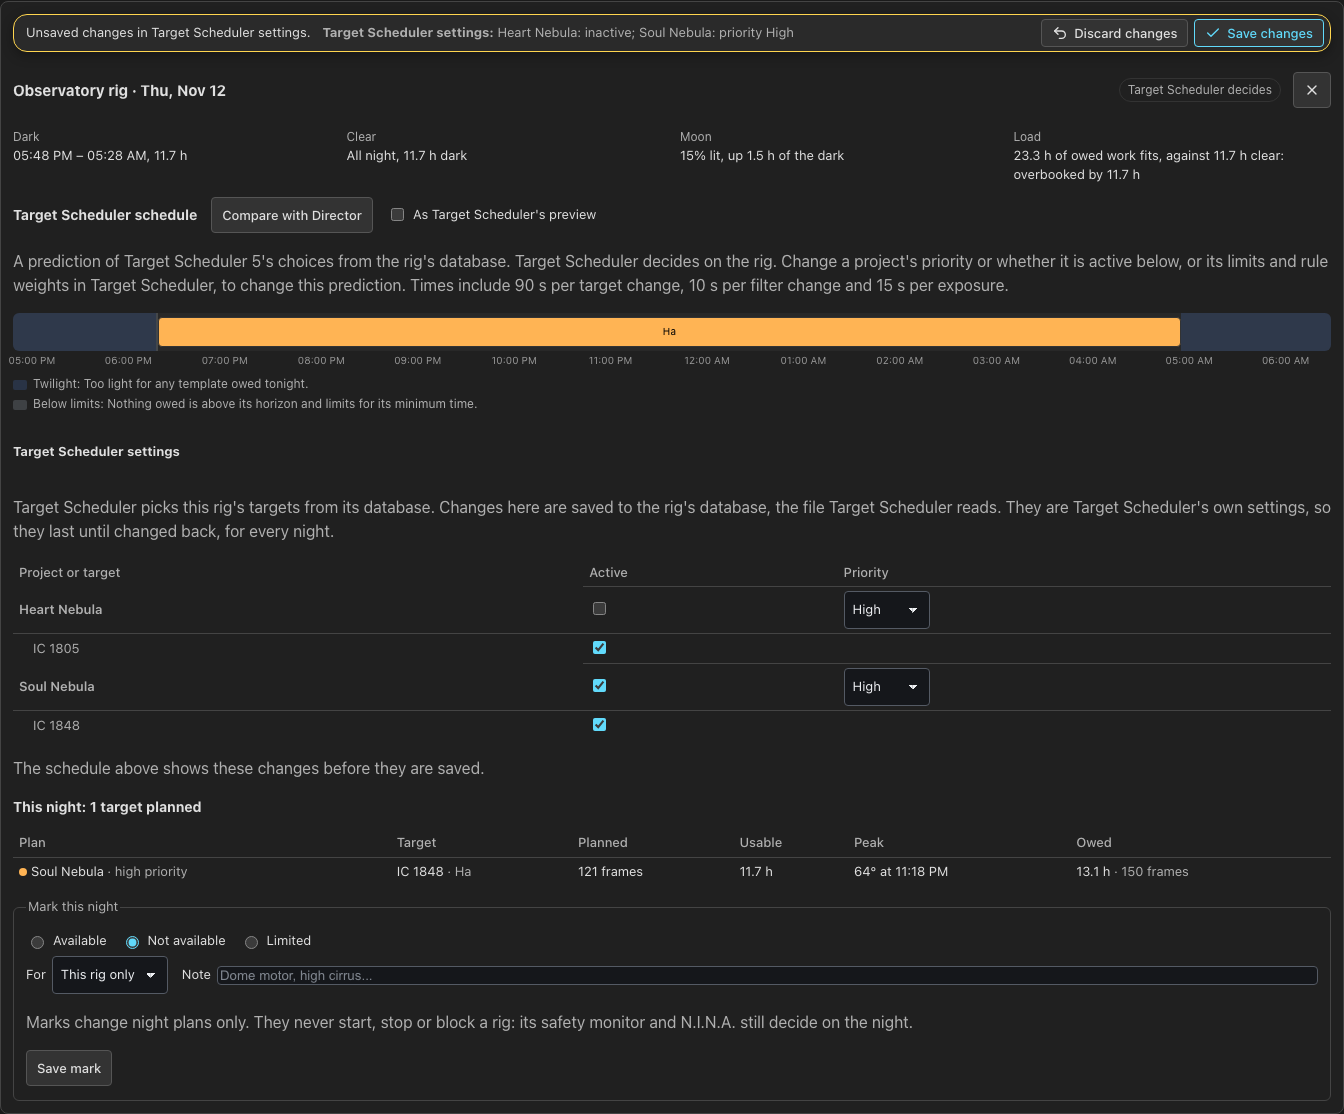
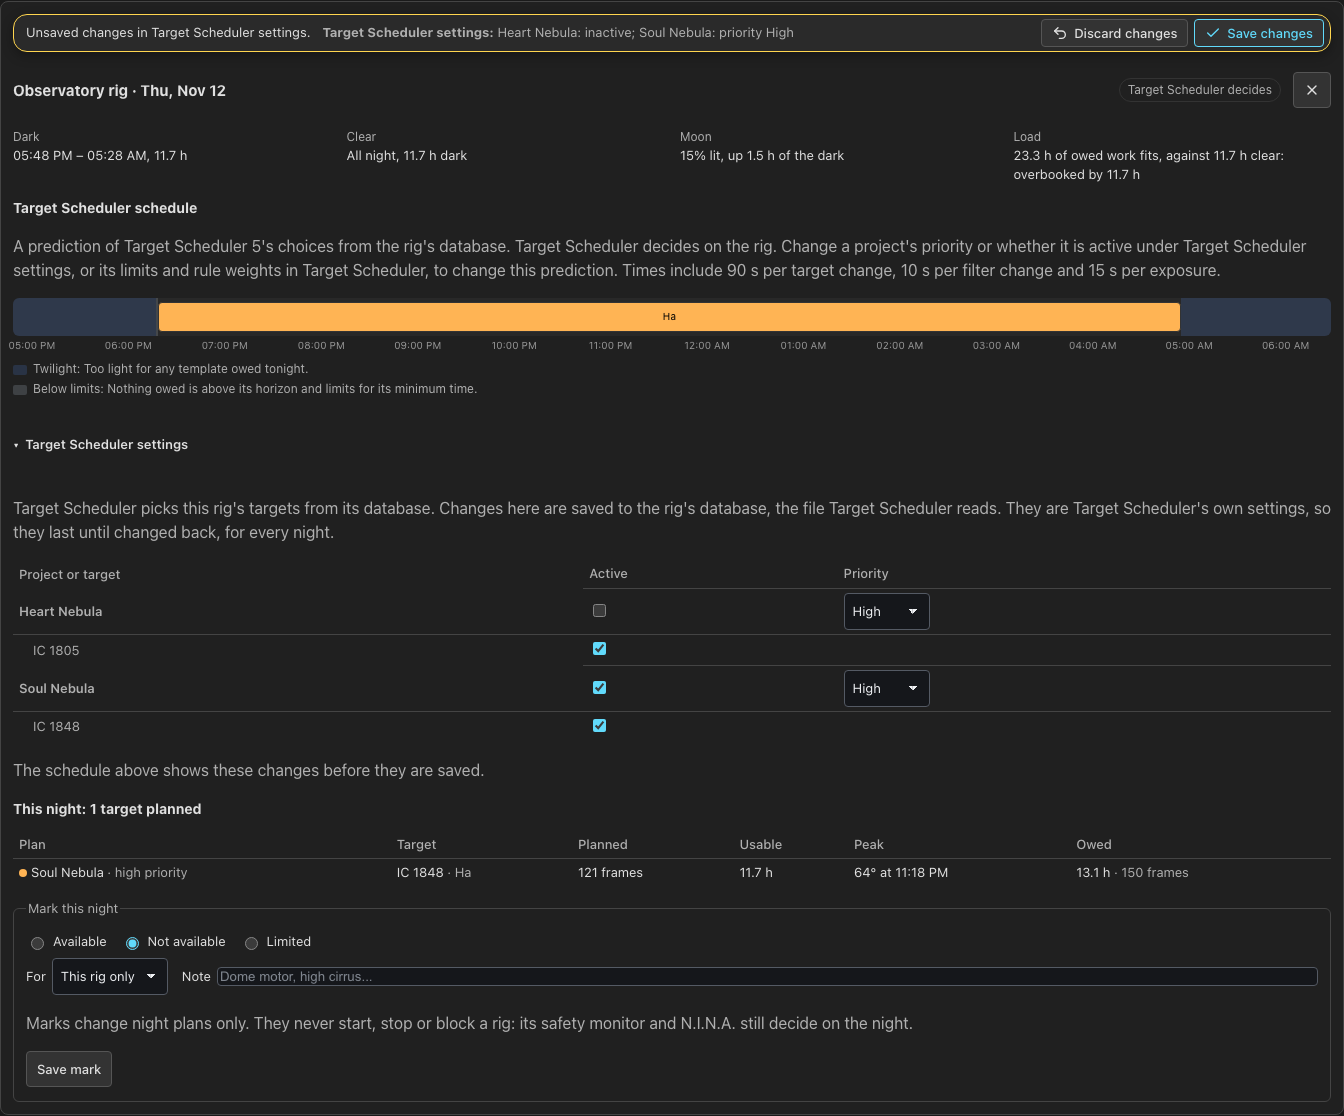
Nights: plan only the rig's own runtime, and fold the TS settings
Compare with Director and the Target Scheduler preview counting confused
more than they helped, so the night's panel plans only the rig's own
runtime, counted as a live run; the night plans API keeps runtime and
fidelity. Target Scheduler settings start folded to a count of the
active projects.

Claude-Session: https://claude.ai/code/session_01QRRMrqiH2vB7WUWPTee9mb

diff --git a/static/src/components/nights/NightDetail.tsx b/static/src/components/nights/NightDetail.tsx
@@ -2,7 +2,7 @@ import { useState } from 'react';
 import { useMutation, useQuery, useQueryClient } from '@tanstack/react-query';
 import { X } from 'lucide-react';
 import { apiClient } from '../../api/client';
-import type { NightAvailabilityState, NightInterval, NightMarkEdit, NightMarkScope, NightOverride, NightRuntime, RigNight, RigNights, ScheduleBlock, ScheduleFidelity, ScheduleRuntimeChoice, TsChanges } from '../../api/nightPlanTypes';
+import type { NightAvailabilityState, NightInterval, NightMarkEdit, NightMarkScope, NightOverride, RigNight, RigNights, ScheduleBlock, TsChanges } from '../../api/nightPlanTypes';
 import { formatHours } from '../director/visibilityFormat';
 import { httpStatus } from '../../utils/httpStatus';
 import { retryWhenBusy } from '../director/retry';
@@ -171,11 +171,9 @@ export default function NightDetail({ rig, nights, colours, canMark, range, onCl
  *  or the other one to compare, counted as a live run or as Target
  *  Scheduler's preview. The timeline and the plan table both read it. */
 function useNightSchedule(rig: RigNights, night: RigNight, range: Props['range'], enabled: boolean, draft: NightOverride[] | null, tsDraft: TsChanges | null) {
-  const [runtime, setRuntime] = useState<ScheduleRuntimeChoice>('auto');
-  const [fidelity, setFidelity] = useState<ScheduleFidelity>('estimate');
   const index = rig.nights.findIndex(n => n.date === night.date);
-  const shown = runtime === 'auto' ? rig.runtime : runtime;
-  const other: NightRuntime = rig.runtime === 'target_scheduler' ? 'director' : 'target_scheduler';
+  // The rig's own runtime, counted as a live run.
+  const shown = rig.runtime;
   const now = useDirectorClock();
   const tonight = isTonight(night, now);
   // Only Director's own schedule of a Director rig takes overrides.
@@ -183,16 +181,13 @@ function useNightSchedule(rig: RigNights, night: RigNight, range: Props['range']
   // Only Target Scheduler's own schedule of its rig takes its changes.
   const tsPreviewed = rig.runtime === 'target_scheduler' && shown === 'target_scheduler' ? tsDraft : null;
   const query = useQuery({
-    queryKey: ['nightPlanDetail', rig.rig.id, range.first, range.count, night.date, runtime, shown === 'target_scheduler' ? fidelity : 'estimate', previewed, tsPreviewed],
+    queryKey: ['nightPlanDetail', rig.rig.id, range.first, range.count, night.date, previewed, tsPreviewed],
     queryFn: () => apiClient.getNightPlans({
       rigs: [rig.rig.id],
       ...(range.first ? { first_night: range.first } : {}),
       nights: range.count,
       schedule_nights: index + 1,
       explain: night.date,
-      runtime,
-      // The preview's counting is Target Scheduler's alone.
-      ...(shown === 'target_scheduler' ? { fidelity } : {}),
       ...(previewed ? { override_draft: { rig: rig.rig.id, date: night.date, entries: previewed } } : {}),
       ...(tsPreviewed ? { ts_draft: { rig: rig.rig.id, changes: tsPreviewed } } : {}),
     }),
@@ -209,8 +204,8 @@ function useNightSchedule(rig: RigNights, night: RigNight, range: Props['range']
   const detail = query.data?.rigs.find(entry => entry.rig.id === rig.rig.id);
   // The grid's schedule is the rig's own runtime, counted as a live run,
   // with the night's saved overrides: an unsaved edit is not the grid's.
-  const asGrid = previewed === null && tsPreviewed === null && runtime === 'auto' && (shown !== 'target_scheduler' || fidelity === 'estimate');
-  return { runtime, setRuntime, fidelity, setFidelity, shown, other, now, tonight, query, detail, asGrid };
+  const asGrid = previewed === null && tsPreviewed === null;
+  return { shown, now, tonight, query, detail, asGrid };
 }
 
 type ScheduleView = ReturnType<typeof useNightSchedule>;
@@ -228,7 +223,7 @@ function NightSchedule({ rig, night, colours, view, edit, moveProblem, saved, on
   /** Start editing the night's overrides, when the person may. */
   onEdit?: () => void;
 }) {
-  const { runtime, setRuntime, fidelity, setFidelity, shown, other, now, tonight, query, detail } = view;
+  const { shown, now, tonight, query, detail } = view;
   const scheduled = detail?.schedule?.nights.find(n => n.date === night.date);
   const goals = detail?.schedule?.goals ?? [];
   const zone = usableZone(rig.time_zone);
@@ -240,15 +235,9 @@ function NightSchedule({ rig, night, colours, view, edit, moveProblem, saved, on
     <div className="nights-mark-row">
       <h4>{RUNTIME_LABEL[shown]} schedule</h4>
       {onEdit && <button type="button" className="is-primary" onClick={onEdit}>Edit night</button>}
-      <button type="button" aria-pressed={runtime !== 'auto'} disabled={!!edit} onClick={() => setRuntime(runtime === 'auto' ? other : 'auto')}>
-        Compare with {RUNTIME_LABEL[other]}
-      </button>
-      {shown === 'target_scheduler' && <label title="Exposure time only, and every frame accepted when the project grades, as Target Scheduler's own Scheduler Preview counts them">
-        <input type="checkbox" checked={fidelity === 'target_scheduler_preview'} onChange={event => setFidelity(event.target.checked ? 'target_scheduler_preview' : 'estimate')} /> As Target Scheduler's preview
-      </label>}
     </div>
     <p className="director-muted">{shown === 'target_scheduler'
-      ? `A prediction of Target Scheduler ${detail?.schedule?.assumptions.target_scheduler_version ?? '5'}'s choices from the rig's database. Target Scheduler decides on the rig. ${rig.runtime === 'target_scheduler' ? "Change a project's priority or whether it is active below, or its limits and rule weights in Target Scheduler" : "Change a plan's priority, limits or rule weights in Target Scheduler"}, to change this prediction.`
+      ? `A prediction of Target Scheduler ${detail?.schedule?.assumptions.target_scheduler_version ?? '5'}'s choices from the rig's database. Target Scheduler decides on the rig. Change a project's priority or whether it is active under Target Scheduler settings, or its limits and rule weights in Target Scheduler, to change this prediction.`
       : "Director's own selection, stepped through the night's dark hours. The rig still decides on the night."}
       {detail?.schedule?.assumptions.overheads && ` Times include ${detail.schedule.assumptions.overheads.target_change_seconds} s per target change, ${detail.schedule.assumptions.overheads.filter_change_seconds} s per filter change and ${detail.schedule.assumptions.overheads.per_exposure_seconds} s per exposure.`}
     </p>

diff --git a/static/src/components/nights/TargetSchedulerControls.tsx b/static/src/components/nights/TargetSchedulerControls.tsx
@@ -32,6 +32,9 @@ const ORDER: Record<TsProject['state'], number> = { active: 0, inactive: 1, draf
 export default function TargetSchedulerControls({ rig, saved, canEdit, edit, onEdit }: Props) {
   const client = useQueryClient();
   const [refused, setRefused] = useState<string | null>(null);
+  // Folded until asked for. An open edit stays in the save bar if the
+  // table is folded again.
+  const [open, setOpen] = useState(false);
   const changes = tsChanges(saved, edit ?? { projects: {}, targets: {} });
   const where = rig.ts_save.files.length > 1
     ? `the rig's database and Target Scheduler's own file (${rig.ts_save.files[1]})`
@@ -70,15 +73,19 @@ export default function TargetSchedulerControls({ rig, saved, canEdit, edit, onE
     onEdit({ ...edit, projects: { ...edit.projects, [project.project_id]: { ...current, ...(change.priority ? { priority: change.priority } : {}), ...(state ? { state } : {}) } } });
   };
   const setTarget = (target: number, active: boolean) => edit && onEdit({ ...edit, targets: { ...edit.targets, [target]: active } });
+  const active = saved.filter(project => project.state === 'active').length;
   return <section className="nights-ts-controls" aria-label="Target Scheduler settings">
     <div className="nights-mark-row">
-      <h4>Target Scheduler settings</h4>
-      {canEdit && !edit && !rig.ts_save.refused && saved.length > 0 && <button type="button" onClick={() => { setRefused(null); onEdit({ projects: {}, targets: {} }); }}>Change settings</button>}
+      <h4><button type="button" className="nights-disclosure" aria-expanded={open} aria-controls={`ts-settings-${rig.rig.id}`}
+        onClick={() => setOpen(!open)}>Target Scheduler settings</button></h4>
+      {!open && <span className="director-muted">{active} of {saved.length} {saved.length === 1 ? 'project' : 'projects'} active</span>}
+      {open && canEdit && !edit && !rig.ts_save.refused && saved.length > 0 && <button type="button" onClick={() => { setRefused(null); onEdit({ projects: {}, targets: {} }); }}>Change settings</button>}
     </div>
+    {refused && !edit && <p className="director-error" role="alert">{refused}</p>}
+    {open && <div id={`ts-settings-${rig.rig.id}`}>
     <p className="director-muted">Target Scheduler picks this rig's targets from its database. {rig.ts_save.refused
       ? rig.ts_save.refused
       : `Changes here are saved to ${where}. They are Target Scheduler's own settings, so they last until changed back, for every night.`}</p>
-    {refused && !edit && <p className="director-error" role="alert">{refused}</p>}
     {saved.length === 0 && <p className="director-muted">The rig's database has no projects for its N.I.N.A. profile.</p>}
     {saved.length > 0 && <div className="director-table-scroll"><table className="nights-plan-table">
       <thead><tr><th>Project or target</th><th>Active</th><th>Priority</th></tr></thead>
@@ -106,5 +113,6 @@ export default function TargetSchedulerControls({ rig, saved, canEdit, edit, onE
       })}</tbody>
     </table></div>}
     {edit && <p className="director-muted">The schedule above shows these changes before they are saved.{isEmpty(changes) && ' '}{isEmpty(changes) && <button type="button" onClick={() => onEdit(null)}>Stop changing</button>}</p>}
+    </div>}
   </section>;
 }

diff --git a/static/src/components/nights/__tests__/NightsView.test.tsx b/static/src/components/nights/__tests__/NightsView.test.tsx
@@ -353,7 +353,15 @@ describe('Target Scheduler settings', () => {
     fireEvent.click(within(grid).getAllByRole('button')[0]);
     const detail = screen.getByRole('region', { name: 'Night details' });
     expect(within(detail).getByText('Target Scheduler decides')).toBeInTheDocument();
+    // Folded until asked for, with how many projects are active.
     const settings = within(detail).getByRole('region', { name: 'Target Scheduler settings' });
+    expect(settings).toHaveTextContent('1 of 2 projects active');
+    expect(within(settings).queryByLabelText('Heart Nebula active')).toBeNull();
+    // Only the rig's own runtime plans the night.
+    expect(within(detail).queryByRole('button', { name: /^Compare with/ })).toBeNull();
+    expect(within(detail).queryByLabelText("As Target Scheduler's preview")).toBeNull();
+    fireEvent.click(within(settings).getByRole('button', { name: 'Target Scheduler settings' }));
+    expect(within(settings).getByRole('button', { name: 'Target Scheduler settings' })).toHaveAttribute('aria-expanded', 'true');
     expect(settings).toHaveTextContent("They are Target Scheduler's own settings, so they last until changed back, for every night.");
     expect(within(settings).getByLabelText('Heart Nebula active')).toBeDisabled();
     fireEvent.click(within(settings).getByRole('button', { name: 'Change settings' }));
@@ -385,6 +393,7 @@ describe('Target Scheduler settings', () => {
     fireEvent.click(within(grid).getAllByRole('button')[0]);
     const detail = screen.getByRole('region', { name: 'Night details' });
     const settings = within(detail).getByRole('region', { name: 'Target Scheduler settings' });
+    fireEvent.click(within(settings).getByRole('button', { name: 'Target Scheduler settings' }));
     fireEvent.click(within(settings).getByRole('button', { name: 'Change settings' }));
     fireEvent.change(within(settings).getByLabelText('Heart Nebula priority'), { target: { value: 'high' } });
     fireEvent.click(within(within(detail).getByRole('region', { name: 'Unsaved changes' })).getByRole('button', { name: 'Save changes' }));
@@ -397,6 +406,7 @@ describe('Target Scheduler settings', () => {
     const grid = await screen.findByTestId('nights-grid');
     fireEvent.click(within(grid).getAllByRole('button')[0]);
     const settings = within(screen.getByRole('region', { name: 'Night details' })).getByRole('region', { name: 'Target Scheduler settings' });
+    fireEvent.click(within(settings).getByRole('button', { name: 'Target Scheduler settings' }));
     expect(settings).toHaveTextContent('runs on another PSF Guard (observatory)');
     expect(within(settings).queryByRole('button', { name: 'Change settings' })).toBeNull();
   });

diff --git a/static/e2e-director/nights.spec.ts b/static/e2e-director/nights.spec.ts
@@ -71,10 +71,9 @@ test('Nights shows every rig across the coming nights, a night\'s schedule, and 
     await expect(gap.first()).toBeAttached({ timeout: 30_000 });
     await shot(page, 'nights-marked', name => testInfo.outputPath(name));
 
-    // Director's view of the same rig: nothing is activated on it.
-    await detail.getByRole('button', { name: 'Compare with Director' }).click();
-    await expect(detail.getByRole('heading', { name: 'Director schedule' })).toBeVisible();
-    await expect(detail.getByText(/No Director schedule/)).toBeVisible({ timeout: 30_000 });
+    // The night is planned by the rig's own runtime only.
+    await expect(detail.getByText('Target Scheduler decides', { exact: true })).toBeVisible();
+    await expect(detail.getByRole('button', { name: /^Compare with/ })).toHaveCount(0);
 
     // On a phone the grid scrolls in its own box; the page does not.
     await page.setViewportSize({ width: 390, height: 900 });

diff --git a/static/e2e-director/ts-settings.spec.ts b/static/e2e-director/ts-settings.spec.ts
@@ -31,6 +31,10 @@ test('a Target Scheduler rig\'s night plans its changed settings before they are
     await expect(blocks.first()).toHaveAccessibleName(/^Heart Nebula, IC 1805/);
 
     const settings = detail.getByRole('region', { name: 'Target Scheduler settings' });
+    // Folded until asked for.
+    await expect(settings).toContainText('2 of 2 projects active');
+    await expect(settings.getByLabel('Heart Nebula active')).toHaveCount(0);
+    await settings.getByRole('button', { name: 'Target Scheduler settings' }).click();
     await expect(settings).toContainText('they last until changed back, for every night');
     await settings.getByRole('button', { name: 'Change settings' }).click();
     await settings.getByLabel('Heart Nebula active').uncheck();

diff --git a/static/src/components/nights/NightsView.css b/static/src/components/nights/NightsView.css
@@ -362,3 +362,6 @@
 .nights-ts-controls { margin: 12px 0; }
 .nights-ts-project th { text-align: left; font-weight: 600; }
 .nights-ts-target td:first-child { padding-left: 20px; color: var(--color-text-secondary); }
+.nights-page .nights-disclosure { padding: 0; border: 0; background: transparent; color: inherit; font: inherit; font-weight: 600; cursor: pointer; }
+.nights-page .nights-disclosure::before { content: '▸ '; }
+.nights-page .nights-disclosure[aria-expanded='true']::before { content: '▾ '; }

diff --git a/docs/DIRECTOR.md b/docs/DIRECTOR.md
@@ -1976,20 +1976,16 @@ window and the meridian flip zone, and its scoring rules with each
 project's weights. A chosen block lists every target the planner looked at,
 where each stood (chosen, lower score, not up yet, Moon avoidance and so
 on) and each rule's part in its score. Target Scheduler still decides on
-the rig: change a plan's priority, limits or rule weights in Target
-Scheduler to change the prediction.
+the rig: change a project's priority or whether it is active under
+**Target Scheduler settings** (below), or its limits and rule weights in
+Target Scheduler, to change the prediction.
 
-- By default the schedule adds time for slews, filter changes, dithers and
-  downloads (90 s per target change, 10 s per filter change, 15 s per dither
-  and 15 s per exposure), and counts planned frames at each plan's
-  acceptance rate so far. Tick **As Target Scheduler's preview** to count
-  exposure time only and every frame as accepted when the project grades,
-  as Target Scheduler's own Scheduler Preview does.
-- **Compare with Director** shows what Director's selection would do with
-  the plans activated on the rig: the same choice the plugin makes,
-  stepped through the night's dark hours. A rig that has not reported its
-  equipment is previewed with the filters, binning and camera settings its
-  templates name; that configuration never reaches the rig.
+The schedule is the rig's own runtime's, counted as a live run: it adds
+time for slews, filter changes, dithers and downloads (90 s per target
+change, 10 s per filter change, 15 s per dither and 15 s per exposure), and
+counts planned frames at each plan's acceptance rate so far. The night
+plans API can also schedule a rig with the other runtime, or count as
+Target Scheduler's own Scheduler Preview does; the page does not.
 
 Frames planned on one night count on the next, so the schedule shows when
 each plan finishes. Nothing is planned in the past: the night under way is
@@ -2098,8 +2094,9 @@ browser does not know falls back to the browser's own.
 ### Change a Target Scheduler rig's settings
 
 On a rig Target Scheduler runs, **Target Scheduler settings** under the
-schedule lists the projects of the rig's N.I.N.A. profile, in any state,
-with their targets. With editor access, **Change settings** lets each
+schedule is folded to a count of the active projects. Open it to list the
+projects of the rig's N.I.N.A. profile, in any state, with their targets.
+With editor access, **Change settings** lets each
 project be set active or not and given a **Priority** (Low, Normal or
 High), and each target be set active or not. The schedule above plans the
 changes before they are saved, as Target Scheduler would read them, and

diff --git a/docs/design/night-plans.md b/docs/design/night-plans.md
@@ -730,7 +730,10 @@ refused.
       writes it to the rig's database and, for a catalog kept in step, to
       Target Scheduler's file. The panel says these last until changed
       back, unlike a Director override;
-    - **Compare with Director** shows what Director would do.
+    - the page plans only the rig's own runtime, counted as a live run.
+      *Changed with Phase 6: **Compare with Director** and the Target
+      Scheduler preview counting left the page as confusing; the API keeps
+      `runtime` and `fidelity`.*
   - On a Director rig:
     - blocks expand into their steps;
     - **Edit night** allows pinning a block by dragging it, excluding a
